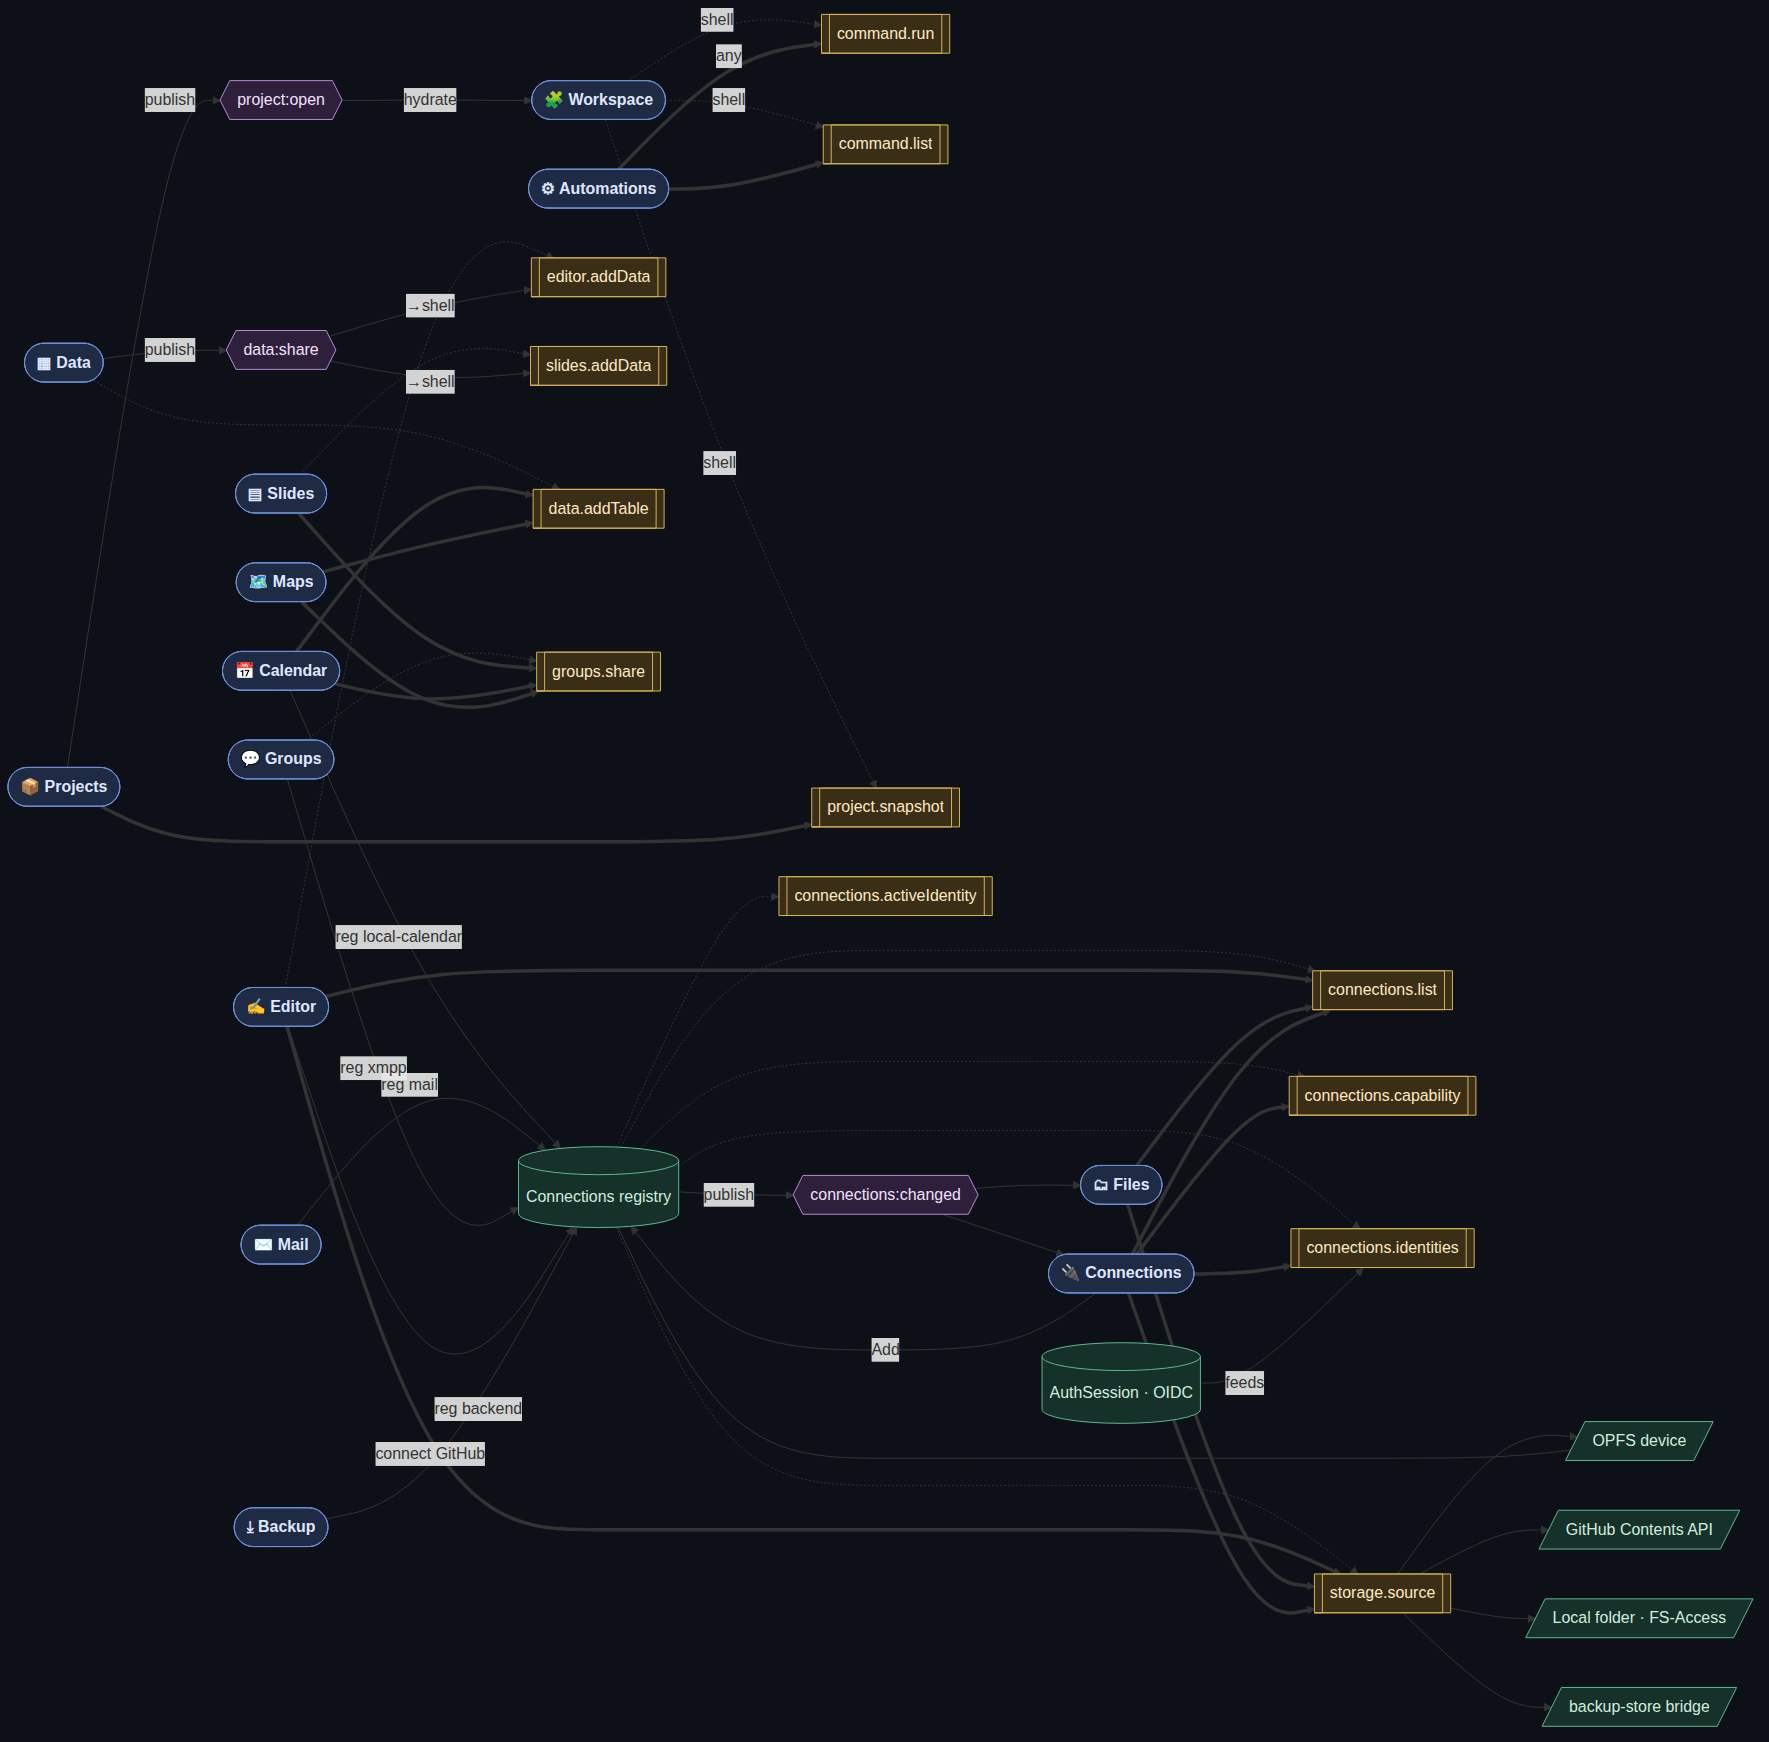
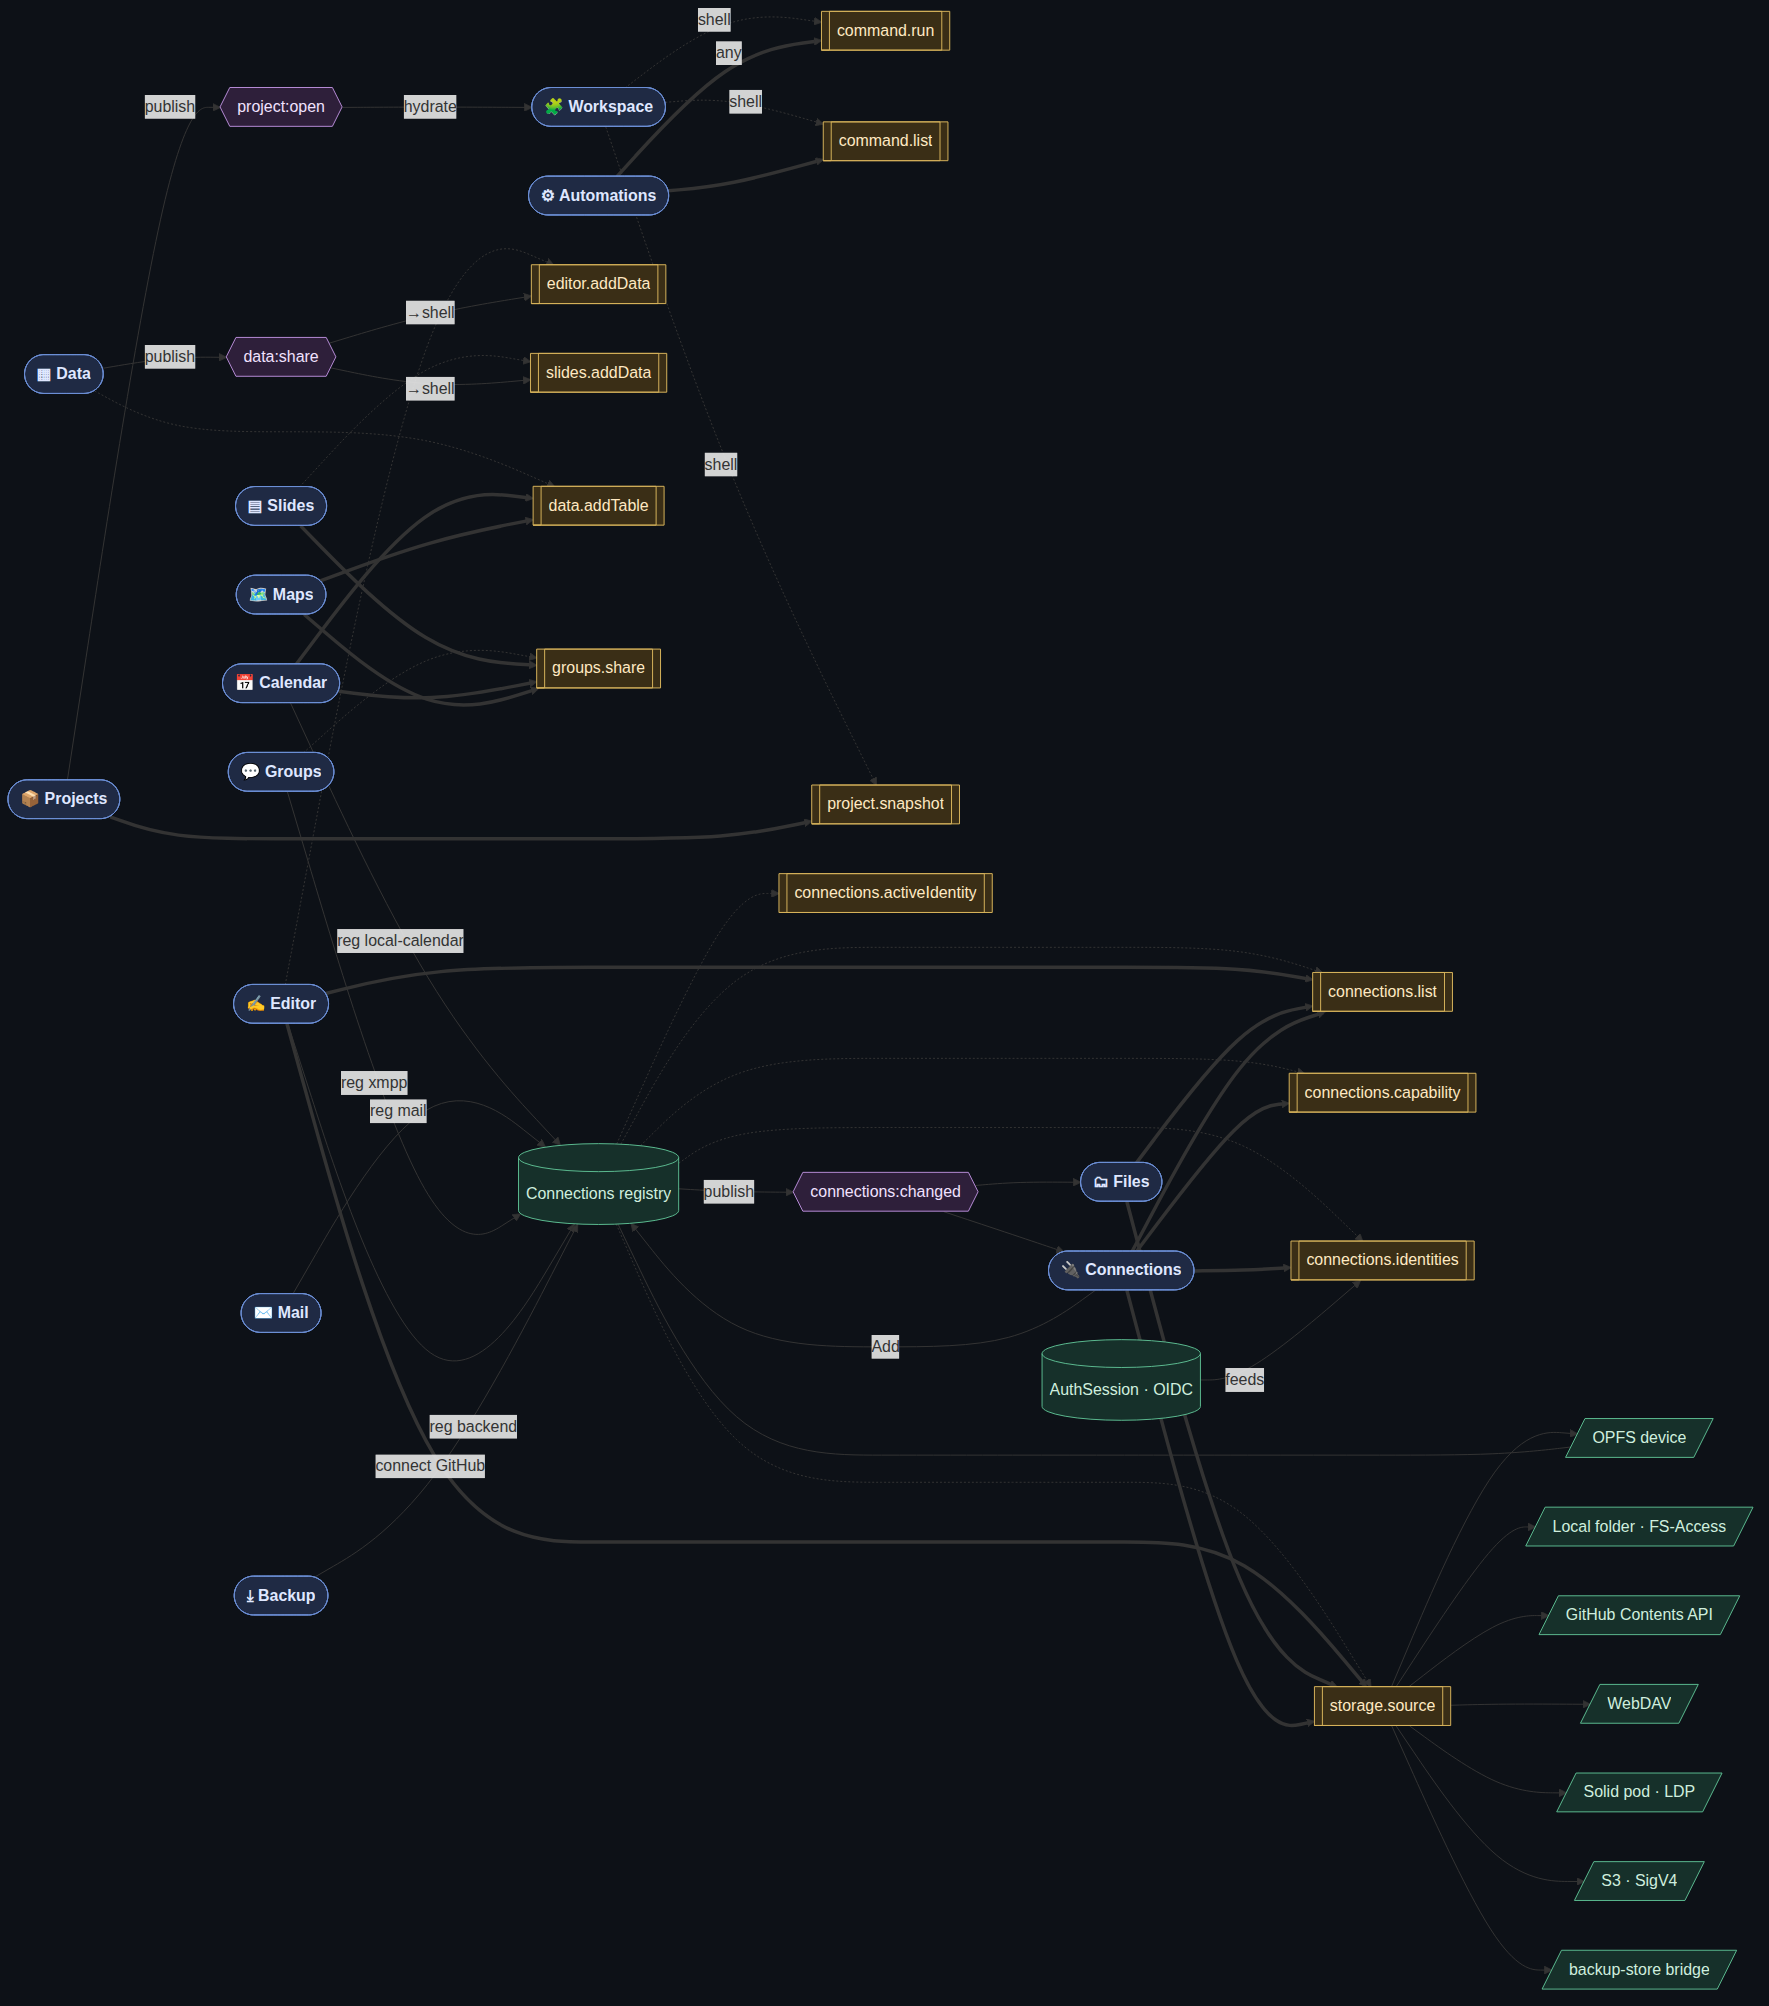
docs(edot): capability graph — all six live storage mounts
Update the complete cross-app graph (Mermaid + rendered PNG) so storage.source
fans out to every real mount now wired: OPFS, local folder, GitHub, WebDAV,
Solid, S3, plus the backup bridge.

Claude-Session: https://claude.ai/code/session_011ZMhAZcyx1SQV54bAG1piM

diff --git a/docs/edot/ui-command-graph.md b/docs/edot/ui-command-graph.md
@@ -59,8 +59,11 @@ flowchart LR
   AS[(AuthSession · OIDC)]:::ids
   CXR[(Connections registry)]:::ids
   mOPFS[/OPFS device/]:::ids
-  mGH[/GitHub Contents API/]:::ids
   mLFS[/Local folder · FS-Access/]:::ids
+  mGH[/GitHub Contents API/]:::ids
+  mWDAV[/WebDAV/]:::ids
+  mSOL[/Solid pod · LDP/]:::ids
+  mS3[/S3 · SigV4/]:::ids
   mBR[/backup-store bridge/]:::ids
 
   %% provides (dashed)
@@ -116,8 +119,11 @@ flowchart LR
   %% identity + storage backing
   AS -->|feeds| capCI
   capSS --> mOPFS
-  capSS --> mGH
   capSS --> mLFS
+  capSS --> mGH
+  capSS --> mWDAV
+  capSS --> mSOL
+  capSS --> mS3
   capSS --> mBR
   CXR --- mOPFS
 ```
